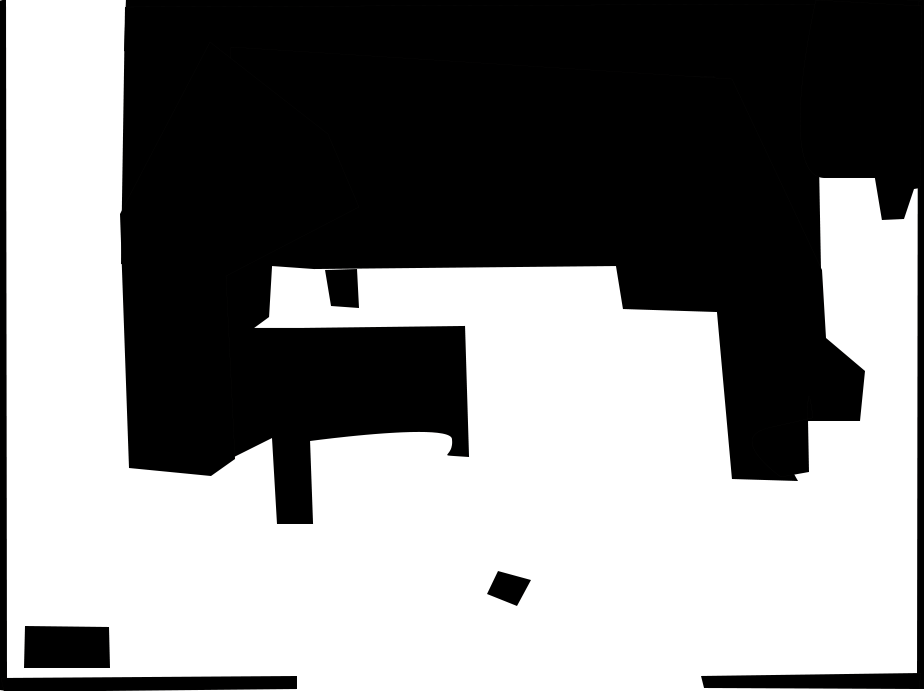
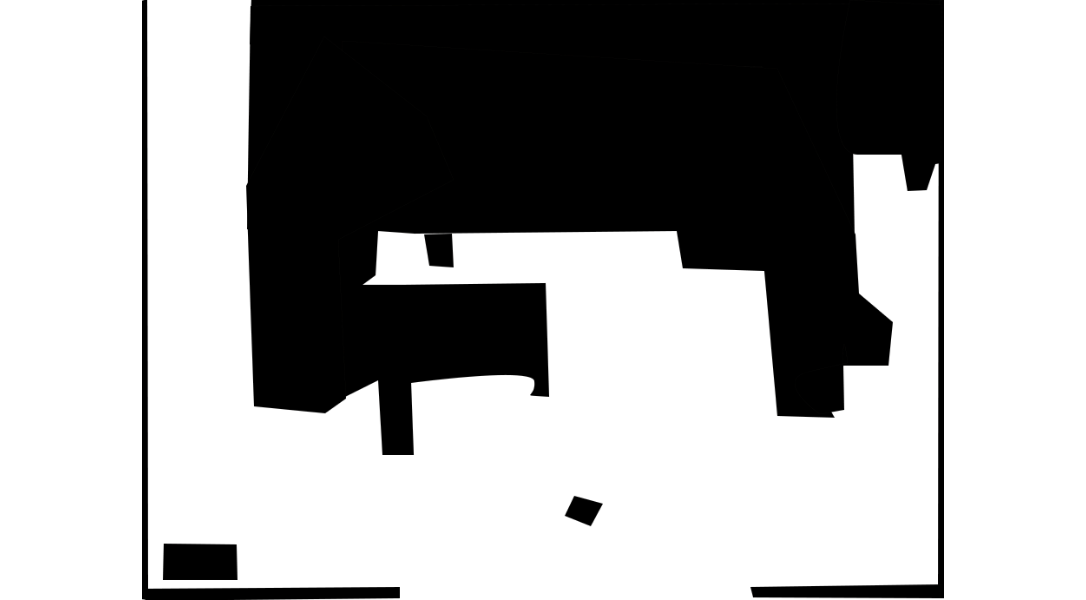
bugs fixing

diff --git a/main.py b/main.py
@@ -43,7 +43,7 @@ class Main:
 			mixer.music.play(loops=-1)
 
 		# Fade into loading screen
-		Fade().fadeDark(image.load("resources/graphics/misc/loading.png").convert(), self.screen, (0,0))
+		Fade().fadeDark(image.load("resources/graphics/map/start1.png").convert(), self.screen, (0,0))
 		display.flip()
 
 		# Startup / ending screens
@@ -106,10 +106,11 @@ class Main:
 		self.sceneSequences = {
 			# Main world
 			"mainWorldShop" :   ["pm", "m", "p", "t", "s[self.story.mainWorldShop(next)]"],
-			"BurntHouse" :   ["pm", "m", "p", "t", "s[self.story.BurntHouse(next)]"],
-
+			"BurntHouse" :   ["i[self.story.BurntHouseMsgFinished]","pm", "m", "p", "t", "s[self.story.BurntHouse(next)]"],
+			#"BurntHouse" :   ["pm", "i[self.story.BurntHouseMsgFinished]","s[self.story.BurntHouse(next)]", "m", "p", "c", "t"],
 			"dungeon" :   ["pm", "m", "p", "t", "s[self.story.dungeon(next)]"],
-			"Lab" :   ["pm", "m","p", "t", "s[self.story.Lab(next)]"],
+			#"Lab" : ["pm", "i[self.story.LabHouseMsgFinished]","s[self.story.Lab(next)]", "m", "p", "c", "t"],
+			"Lab" :   ["i[self.story.LabHouseMsgFinished]","pm", "m","p", "t", "s[self.story.Lab(next)]"],
 			"finalisland" :   ["pm", "m","p", "t", "s[self.story.finalisland(next)]"],
 			"waterTemple" :		["pm", "m", "s[self.story.temple('water')]", "p", "t"],
 			"waterWorldEnter" : ["pm", "m", "s[self.story.waterWorldEnter()]", "p", "t"],
@@ -221,7 +222,7 @@ class Main:
 			],
 			"mainWorld" : [
 				# [Rect(self.player.mapCoords["mainWorld"][0]+1892,self.player.mapCoords["mainWorld"][1]+2342,123,60), "mainWorldShop", (534,546)],
-				[Rect(self.player.mapCoords["mainWorld"][0]+1892,self.player.mapCoords["mainWorld"][1]+2342,123,60), "BurntHouse", (534,546)],
+				[Rect(self.player.mapCoords["mainWorld"][0]+1892,self.player.mapCoords["mainWorld"][1]+2342,123,60), "BurntHouse", (276,554)],
 				[Rect(self.player.mapCoords["mainWorld"][0]+9356,self.player.mapCoords["mainWorld"][1]+2216,123,60), "hideout", (540,546)],
 				[Rect(self.player.mapCoords["mainWorld"][0]+1651,self.player.mapCoords["mainWorld"][1]+182,20,20), "waterTemple", (543,546)],
 				[Rect(self.player.mapCoords["mainWorld"][0]+208,self.player.mapCoords["mainWorld"][1]+1427,20,10), "fireTemple", (543,546)],
@@ -232,14 +233,13 @@ class Main:
 				[Rect(self.player.mapCoords["mainWorld"][0]+11566,self.player.mapCoords["mainWorld"][1]+8194,30,20), "finalisland", (519,536)],
 			],
 			# "mainWorldShop" : [[Rect(474,595,133,20), "mainWorld", (self.player.mapCoords["mainWorld"][0]+1953,self.player.mapCoords["mainWorld"][1]+2402)]],
-			"BurntHouse" : [[Rect(474,595,133,20), "mainWorld", (self.player.mapCoords["mainWorld"][0]+1953,self.player.mapCoords["mainWorld"][1]+2402)],
-							[Rect(178,-4.5,25,15), "dungeon", (543,546)]	],
-			"dungeon" : [[Rect(1045,510,35,65), "BurntHouse", (196.5,13.5)],
-						[Rect(5,542,130,130), "Lab", (1057.5,398)]	],
+			"BurntHouse" : [[Rect(336,544,530,60), "mainWorld", (self.player.mapCoords["mainWorld"][0]+1953,self.player.mapCoords["mainWorld"][1]+2402)],
+							[Rect(178,-4.5,25,15), "dungeon", (1000,436)]	],
+			"dungeon" : [[Rect(992,486,35,15), "BurntHouse", (196.5,13.5)],
+						[Rect(20,542,60,130), "Lab", (671.5,235)]	],
 
 
-			"Lab" : [[Rect(671.5,240,25,15), "mainWorld", (self.player.mapCoords["mainWorld"][0]+11565.75,self.player.mapCoords["mainWorld"][1]+8198)],
-					 [Rect(233.5,550,130,40), "dungeon", (9,452.5)]	],
+			"Lab" : [[Rect(671.5,220,25,15), "dungeon", (60,452.5)]	],
 
 			"hideout" : [[Rect(474,595,133,20), "mainWorld", (self.player.mapCoords["mainWorld"][0]+9426,self.player.mapCoords["mainWorld"][1]+2344)]],
 			"finalisland" : [
@@ -255,7 +255,7 @@ class Main:
 			],
 			"waterWorld" : [
 				[Rect(491,582,100,10), "waterWorldEnter", (520,406)],
-				[Rect(self.player.mapCoords["waterWorld"][0]+242,self.player.mapCoords["waterWorld"][1]+732,30,10), "waterWorldRoom1", (534,529)],
+				[Rect(self.player.mapCoords["waterWorld"][0]+242,self.player.mapCoords["waterWorld"][1]+732,30,10), "waterWorldRoom1", (540,520)],
 				[Rect(self.player.mapCoords["waterWorld"][0]+818,self.player.mapCoords["waterWorld"][1]+732,30,10), "waterWorldRoom2", (534,528)],
 				[Rect(self.player.mapCoords["waterWorld"][0]+242,self.player.mapCoords["waterWorld"][1]+284,30,10), "waterWorldRoom3", (505,513)],
 				[Rect(self.player.mapCoords["waterWorld"][0]+821,self.player.mapCoords["waterWorld"][1]+284,30,10), "waterWorldRoom4", (526,542)],

diff --git a/Game/treasure.py b/Game/treasure.py
@@ -80,23 +80,23 @@ class Treasure:
 			"brochure" : [
 				"brochure",
 				transform.scale2x(image.load("resources/graphics/items/brochure_small.png").convert_alpha()),
-				["Howdy Partner! You have successfully discovered the Black pearl’s control room. From now, you are the caption of the ship. Use it to reach the island to uncover the box of mystery.      P.S. BIEZOM LYPSEAPOCA"        ],
+				["Brochure with some","important text"],
 				(497,205),
 				Rect(497,205,50,50),
 				7],
 			"letter1" : [
 				"letter1",
 				transform.scale2x(image.load("resources/graphics/items/letter1_preview_rev_1.png").convert_alpha()),
-				["Howdy Partner! You have successfully discovered the letter1."],
-				(497,205),
-				Rect(497,205,50,50),
+				["You have successfully", "discovered the letter."],
+				(560,205),
+				Rect(560,205,50,50),
 				7],
 			"letter2" : [
 				"letter2",
 				transform.scale2x(image.load("resources/graphics/items/letter1_preview_rev_1.png").convert_alpha()),
-				["Howdy Partner! You have successfully discovered the second letter."],
-				(497,205),
-				Rect(497,205,50,50),
+				["You have successfully", "discovered the letter."],
+				(560,205),
+				Rect(560,205,50,50),
 				7],
 			"key" : [
 				"key",
@@ -109,22 +109,22 @@ class Treasure:
 				"letter2",
 				transform.scale2x(image.load("resources/graphics/items/laptop1.png").convert_alpha()),
 				["laptop for regaining", "your memory back."],
-				(497,205),
-				Rect(497,205,50,50),
+				(625,211),
+				Rect(625,211,50,50),
 				7],
 			"testtube" : [
 				"testtube",
 				transform.scale2x(image.load("resources/graphics/items/testtube.png").convert_alpha()),
 				["testtube which will help","you in future."],
-				(363,222),
-				Rect(363,222,50,50),
+				(426,262),
+				Rect(426,262,50,50),
 				7],
 			"microscope" : [
 				"microscope",
 				transform.scale2x(image.load("resources/graphics/items/microscope.png").convert_alpha()),
 				["microscope which will help","you in future."],
-				(363,268),
-				Rect(363,268,50,50),
+				(363,264),
+				Rect(363,264,50,50),
 				7],
 			"worldMap" : [
 				"worldMap",
@@ -141,7 +141,7 @@ class Treasure:
 		self.inventory = transform.scale2x(transform.scale2x(image.load("resources/graphics/misc/inventory.png").convert_alpha()))
 		self.settings = transform.scale2x(transform.scale2x(image.load("resources/graphics/misc/settings.png").convert_alpha()))
 		self.mapView = transform.scale2x(transform.scale2x(image.load("resources/graphics/misc/mapView.png").convert_alpha()))
-		self.smallMap = image.load("resources/graphics/map/smallMap.png")
+		self.smallMap = image.load("resources/graphics/map/smallMap1.png")
 
 		# Item placeholders.
 		self.placeholder = transform.scale2x(image.load("resources/graphics/misc/placeholder.png").convert_alpha())

diff --git a/Game/maps.py b/Game/maps.py
@@ -41,7 +41,7 @@ class Maps:
 			"church" : [image.load("resources/graphics/map/church.png").convert(), (0,-790), True],
 			"finalTemple" : [image.load("resources/graphics/map/finalTemple.png").convert(), (0,-312), True],
 			"ultimateShop" : [transform.scale(image.load("resources/graphics/map/ultimateShop.jpg").convert(),(1086,600)), (0,0), False],
-			"hideout" : [transform.scale(image.load("resources/graphics/map/hideout_final.png").convert(),(1086,600)), (0,0), False],
+			"hideout" : [transform.scale(image.load("resources/graphics/map/hideout.png").convert(),(1086,600)), (0,0), False],
 			"dungeon" : [transform.scale(image.load("resources/graphics/map/fun_dungeon.png").convert(),(1086,600)), (0,0), False],
 			"Lab" : [transform.scale(image.load("resources/graphics/map/lab1.png").convert(),(1086,600)), (0,0), False],
 			"finalisland" : [transform.scale(image.load("resources/graphics/map/surpriseTemple.png").convert(),(1086,600)), (0,0), False]

diff --git a/Game/story.py b/Game/story.py
@@ -98,9 +98,9 @@ class Story:
 			"letter2" : [["Some sort of letter.", "It seems useless..."],(132,336), 100, Rect(132,336,100,100)], 
 			"worldMap" : [["WorldMap", "It seems usefull..."],(540,192), 100, Rect(540,192,20,20)],
 			"key" : [["These seems key."], (429,339), 30, Rect(429,339,70,70)],
-			"laptop" : [["Seems useless laptop."], (648,270), 200, Rect(648,270,self.laptop.get_width()*2,self.laptop.get_height()*2)],
+			"laptop" : [["Seems useless laptop."], (740,230), 200, Rect(740,230,100,100)],
 			"testtube" : [["Seems useless testtube."], (123.5,464), 200, Rect(123.5,464,70,70)],
-			"microscope" : [["Seems useless microscope."], (648,270), 200, Rect(648,270,70,70)],
+			"microscope" : [["Seems useless microscope."], (87.5,316), 200, Rect(87.5,316,70,70)],
 			"chestbox" : [["treasure box."], (541,46), 200, Rect(541,46,70,70)]
 
 		

diff --git a/Game/player.py b/Game/player.py
@@ -109,8 +109,8 @@ class Player(object):
 		# All player speeds based on map
 		self.speeds = {
 			"shipCabin" : 1.5,
-			"shipCorridor" : 1.5,
-			"mainWorld" : 1.5,
+			"shipCorridor" : 2.5,
+			"mainWorld" : 4,
 			"mainWorldShop" : 2,
 			"waterTemple": 2,
 			"waterWorldEnter" : 2,
